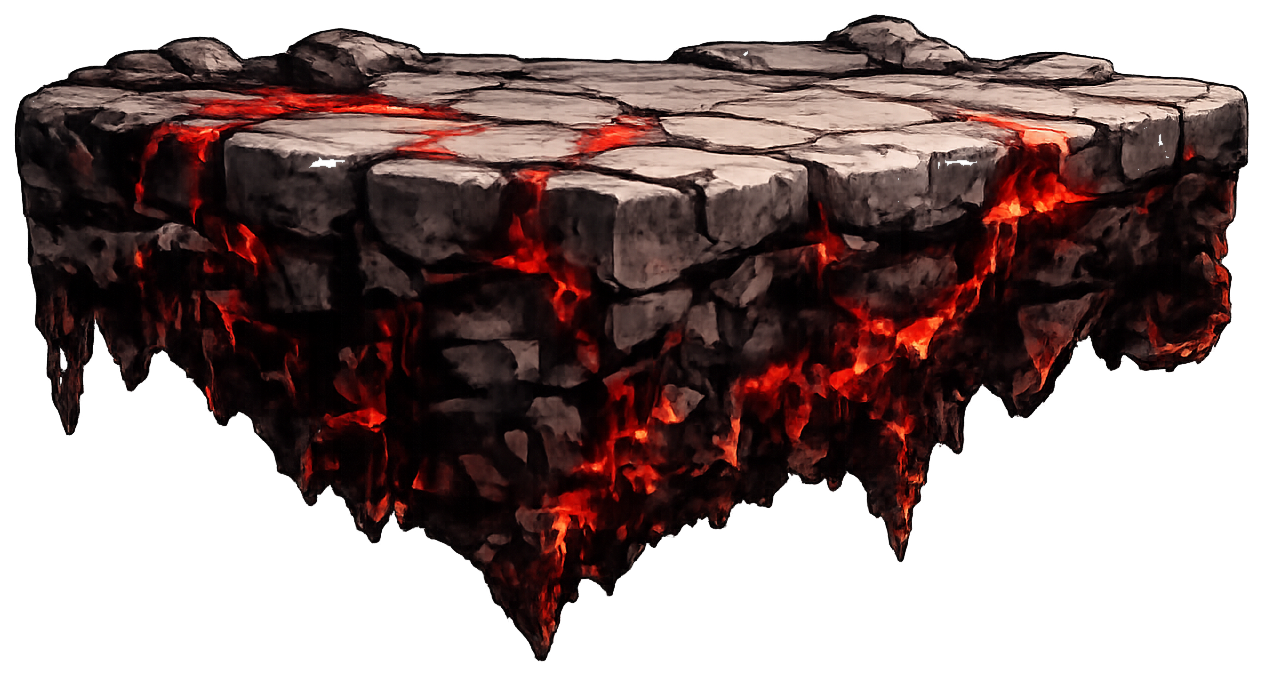
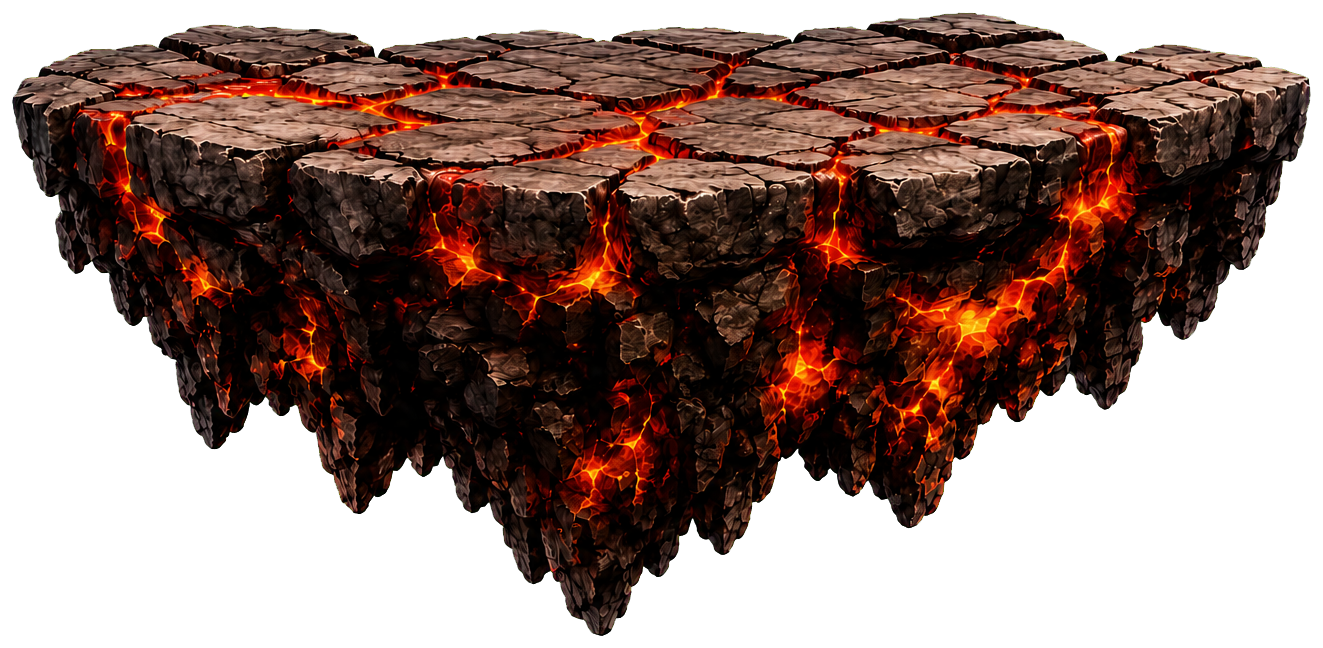
Replace Colt Run platform 03

diff --git a/app.js b/app.js
@@ -1966,10 +1966,10 @@ function startColtRunGame() {
   const smallPlatformSpriteIndex = 21;
   const platformSprites = Array.from({ length: 22 }, (_, index) => {
     const sprite = new Image();
-    sprite.src = `assets/colt-run-platform-${String(index + 1).padStart(2, "0")}.png?v=20260718-platform22-green1`;
+    sprite.src = `assets/colt-run-platform-${String(index + 1).padStart(2, "0")}.png?v=20260718-platform03-replace1`;
     return sprite;
   });
-  const platformSurfaceRatios = [0.24, 0.27, 0.16, 0.18, 0.24, 0.27, 0.22, 0.25, 0.35, 0.24, 0.23, 0.22, 0.42, 0.52, 0.41, 0.13, 0.52, 0.50, 0.47, 0.50, 0.22, 0.18];
+  const platformSurfaceRatios = [0.24, 0.27, 0.20, 0.18, 0.24, 0.27, 0.22, 0.25, 0.35, 0.24, 0.23, 0.22, 0.42, 0.52, 0.41, 0.13, 0.52, 0.50, 0.47, 0.50, 0.22, 0.18];
   const platformCollisionProfiles = {
     0: { offsetY: 10 },
     7: { leftSurfaceRatio: 0.43, rightSurfaceRatio: 0.08 }

diff --git a/index.html b/index.html
@@ -8,7 +8,7 @@
 </head>
 <body>
   <main id="app" class="app-shell"></main>
-  <script src="app.js?v=20260718-platform-collision-fix1"></script>
+  <script src="app.js?v=20260718-platform03-replace1"></script>
 </body>
 </html>
 
